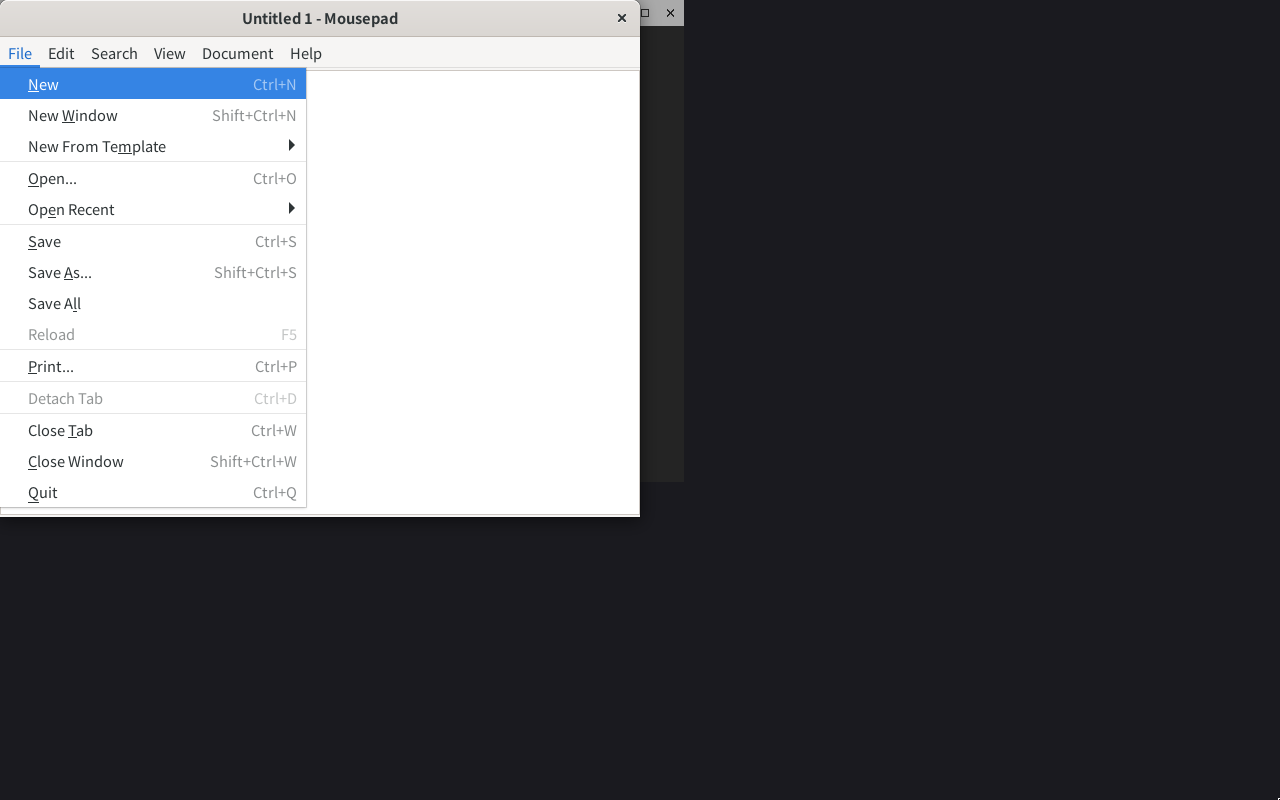
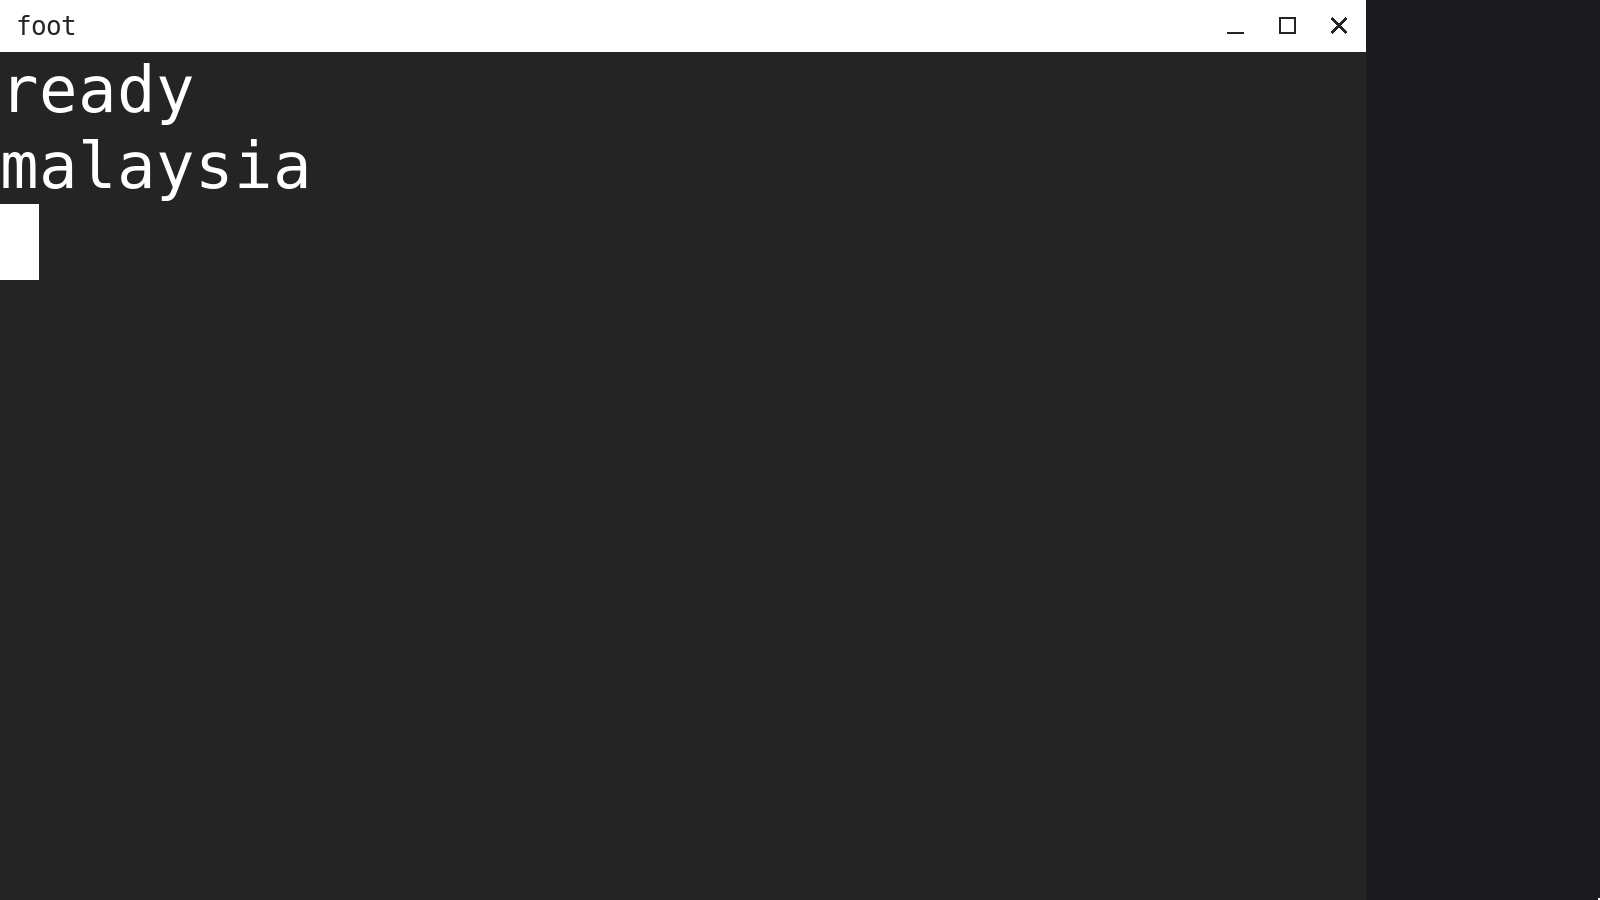
Feature: a whole-number output scale for HiDPI displays
The direct backend picks a scale from 1 to 4 from the display's physical size and mode, with the rule mutter uses in its integer mode, and draws the cursor at it. Nested, the output takes the host's scale. Smithay already scales windows, damage and input from the output.

The machine check gains a second machine whose display reports a 150x80 mm panel at 1600x900 through a firmware EDID, and expects scale 2 there.

diff --git a/crates/malaysia-compositor/src/drm.rs b/crates/malaysia-compositor/src/drm.rs
@@ -19,7 +19,7 @@ use smithay::backend::session::{Event as SessionEvent, Session};
 use smithay::backend::udev::primary_gpu;
 use smithay::desktop::{Space, Window};
 use smithay::input::pointer::{CursorImageAttributes, CursorImageStatus};
-use smithay::output::{Mode, Output, PhysicalProperties};
+use smithay::output::{Mode, Output, PhysicalProperties, Scale};
 use smithay::reexports::calloop::LoopHandle;
 use smithay::reexports::drm::control::{Device, ModeTypeFlags, connector};
 use smithay::reexports::input::Libinput;
@@ -28,6 +28,7 @@ use smithay::reexports::wayland_server::DisplayHandle;
 use smithay::utils::{DeviceFd, IsAlive, Logical, Point};
 use smithay::wayland::compositor::with_states;
 
+use crate::scale::integer_scale;
 use crate::state::{Backend, CLEAR_COLOR, Element, State, elements};
 
 const CURSOR_SIZE: i32 = 16;
@@ -86,12 +87,18 @@ impl Drm {
             .or(connector.modes().first())
             .copied()
             .ok_or("connector has no mode")?;
+        let (width_mm, height_mm) = connector.size().unwrap_or((0, 0));
+        let output_mode = Mode::from(mode);
+        let scale = integer_scale((width_mm as i32, height_mm as i32).into(), output_mode.size);
         tracing::info!(
             connector = ?connector.interface(),
             id = connector.interface_id(),
             width = mode.size().0,
             height = mode.size().1,
             refresh = mode.vrefresh(),
+            width_mm,
+            height_mm,
+            scale,
             "mode chosen"
         );
         let crtc = connector
@@ -106,7 +113,6 @@ impl Drm {
             })
             .ok_or("no crtc for the connector")?;
 
-        let (width_mm, height_mm) = connector.size().unwrap_or((0, 0));
         let output = Output::new(
             format!(
                 "{}-{}",
@@ -121,9 +127,13 @@ impl Drm {
                 serial_number: String::new(),
             },
         );
-        let output_mode = Mode::from(mode);
         output.set_preferred(output_mode);
-        output.change_current_state(Some(output_mode), None, None, Some((0, 0).into()));
+        output.change_current_state(
+            Some(output_mode),
+            None,
+            Some(Scale::Integer(scale)),
+            Some((0, 0).into()),
+        );
         output.create_global::<State>(display_handle);
 
         let surface = drm.create_surface(crtc, mode, &[connector.handle()])?;
@@ -228,7 +238,7 @@ impl Drm {
         pointer: Point<f64, Logical>,
         frame: &mut Vec<Element>,
     ) -> Result<bool, Box<dyn Error>> {
-        self.push_cursor(cursor, pointer, frame);
+        self.push_cursor(output, cursor, pointer, frame);
         elements(&mut self.renderer, space, output, frame)?;
         let is_empty = self
             .compositor
@@ -243,10 +253,12 @@ impl Drm {
 
     fn push_cursor(
         &mut self,
+        output: &Output,
         cursor: &CursorImageStatus,
         pointer: Point<f64, Logical>,
         frame: &mut Vec<Element>,
     ) {
+        let scale = output.current_scale().fractional_scale();
         match cursor {
             CursorImageStatus::Hidden => {}
             CursorImageStatus::Surface(surface) if surface.alive() => {
@@ -259,20 +271,22 @@ impl Drm {
                         .unwrap()
                         .hotspot
                 });
-                let location = (pointer - hotspot.to_f64()).to_physical(1.0).to_i32_round();
+                let location = (pointer - hotspot.to_f64())
+                    .to_physical(scale)
+                    .to_i32_round();
                 frame.extend(render_elements_from_surface_tree::<_, Element>(
                     &mut self.renderer,
                     surface,
                     location,
-                    1.0,
+                    scale,
                     1.0,
                     Kind::Cursor,
                 ));
             }
             _ => frame.push(Element::Solid(SolidColorRenderElement::from_buffer(
                 &self.cursor_fallback,
-                pointer.to_physical(1.0).to_i32_round(),
-                1.0,
+                pointer.to_physical(scale).to_i32_round(),
+                scale,
                 1.0,
                 Kind::Cursor,
             ))),

diff --git a/crates/malaysia-compositor/src/scale.rs b/crates/malaysia-compositor/src/scale.rs
@@ -1,0 +1,93 @@
+use smithay::utils::{Physical, Raw, Size};
+
+const MOBILE_TARGET_DPI: f64 = 135.0;
+const LARGE_TARGET_DPI: f64 = 110.0;
+const LARGE_MIN_DIAGONAL_INCHES: f64 = 20.0;
+const MM_PER_INCH: f64 = 25.4;
+const INTEGER_BIAS: f64 = 0.125;
+const MAX_SCALE: i32 = 4;
+const MIN_LOGICAL_AREA: i32 = 600 * 600;
+const ASPECT_RATIOS_AS_SIZE: [(i32, i32); 6] = [
+    (1600, 900),
+    (1600, 1000),
+    (160, 90),
+    (160, 100),
+    (16, 9),
+    (16, 10),
+];
+
+pub fn integer_scale(size_mm: Size<i32, Raw>, mode_size: Size<i32, Physical>) -> i32 {
+    if size_mm.w <= 0 || size_mm.h <= 0 || ASPECT_RATIOS_AS_SIZE.contains(&(size_mm.w, size_mm.h)) {
+        return 1;
+    }
+    let diagonal_inches = f64::from(size_mm.w).hypot(f64::from(size_mm.h)) / MM_PER_INCH;
+    let target_dpi = if diagonal_inches < LARGE_MIN_DIAGONAL_INCHES {
+        MOBILE_TARGET_DPI
+    } else {
+        LARGE_TARGET_DPI
+    };
+    let dpi = f64::from(mode_size.w).hypot(f64::from(mode_size.h)) / diagonal_inches;
+    let ideal = dpi / target_dpi - INTEGER_BIAS;
+    (1..=MAX_SCALE)
+        .filter(|scale| {
+            mode_size.w % scale == 0
+                && mode_size.h % scale == 0
+                && (mode_size.w / scale) * (mode_size.h / scale) >= MIN_LOGICAL_AREA
+        })
+        .min_by(|a, b| {
+            (f64::from(*a) - ideal)
+                .abs()
+                .total_cmp(&(f64::from(*b) - ideal).abs())
+        })
+        .unwrap_or(1)
+}
+
+#[cfg(test)]
+mod tests {
+    use super::*;
+
+    fn scale(size_mm: (i32, i32), mode_size: (i32, i32)) -> i32 {
+        integer_scale(size_mm.into(), mode_size.into())
+    }
+
+    #[test]
+    fn matches_the_integer_scales_mutter_expects() {
+        for (size_mm, mode_size, expected) in [
+            ((65, 129), (720, 1440), 1),
+            ((68, 144), (1080, 2280), 2),
+            ((64, 142), (1080, 2400), 2),
+            ((286, 179), (2560, 1600), 2),
+            ((303, 202), (2400, 1600), 1),
+            ((290, 180), (3840, 2400), 2),
+            ((300, 190), (3840, 2400), 2),
+            ((509, 286), (1920, 1080), 1),
+            ((509, 286), (3840, 2160), 2),
+            ((598, 336), (3840, 2160), 1),
+            ((708, 398), (3840, 2160), 1),
+            ((554, 312), (3840, 2160), 1),
+            ((522, 294), (3840, 2160), 2),
+        ] {
+            assert_eq!(
+                scale(size_mm, mode_size),
+                expected,
+                "{size_mm:?} {mode_size:?}"
+            );
+        }
+    }
+
+    #[test]
+    fn unknown_or_aspect_ratio_sizes_give_scale_one() {
+        for size_mm in [(0, 0), (0, 200), (300, 0)]
+            .into_iter()
+            .chain(ASPECT_RATIOS_AS_SIZE)
+        {
+            assert_eq!(scale(size_mm, (3840, 2160)), 1, "{size_mm:?}");
+        }
+    }
+
+    #[test]
+    fn a_150_by_80_mm_panel_gives_two_at_1600x900_and_one_at_1280x800() {
+        assert_eq!(scale((150, 80), (1600, 900)), 2);
+        assert_eq!(scale((150, 80), (1280, 800)), 1);
+    }
+}

diff --git a/crates/malaysia-compositor/src/winit.rs b/crates/malaysia-compositor/src/winit.rs
@@ -4,7 +4,7 @@ use smithay::backend::renderer::damage::OutputDamageTracker;
 use smithay::backend::renderer::gles::GlesRenderer;
 use smithay::backend::winit::{self, WinitEvent, WinitGraphicsBackend};
 use smithay::desktop::{Space, Window};
-use smithay::output::{Mode, Output, PhysicalProperties, Subpixel};
+use smithay::output::{Mode, Output, PhysicalProperties, Scale, Subpixel};
 use smithay::reexports::calloop::LoopHandle;
 use smithay::reexports::wayland_server::DisplayHandle;
 use smithay::utils::{Physical, Size, Transform};
@@ -51,10 +51,13 @@ impl Winit {
         output.create_global::<State>(display_handle);
 
         loop_handle.insert_source(event_loop, |event, _, state| match event {
-            WinitEvent::Resized { size, .. } => {
-                state
-                    .output
-                    .change_current_state(Some(mode(size)), None, None, None);
+            WinitEvent::Resized { size, scale_factor } => {
+                state.output.change_current_state(
+                    Some(mode(size)),
+                    None,
+                    Some(Scale::Fractional(scale_factor)),
+                    None,
+                );
                 state.needs_redraw = true;
             }
             WinitEvent::Redraw => state.render(),

diff --git a/crates/malaysia-compositor/src/main.rs b/crates/malaysia-compositor/src/main.rs
@@ -1,6 +1,7 @@
 mod drm;
 mod handlers;
 mod input;
+mod scale;
 mod state;
 mod winit;
 

diff --git a/ROADMAP.md b/ROADMAP.md
@@ -10,11 +10,13 @@ Last update: 2026-11-25.
 ## Where we are
 
 **Now:** the compositor runs directly on a display and nested in a Wayland
-session, and apps show their menus. Next is output scale; `linux-dmabuf`
-waits for a real GPU. Nothing has run on real hardware yet.
+session, apps show their menus, and a HiDPI display gets a whole-number
+scale. Next is fractional scale; `linux-dmabuf` waits for a real GPU. Nothing
+has run on real hardware yet.
 
-The display after the last finished step (step 9: on a NixOS machine, directly
-on the display, a text editor with its File menu open):
+The display after the last finished step (step 10: on a NixOS machine whose
+display reports a small 1600x900 panel, directly on the display, a terminal
+drawn at scale 2):
 
 ![The display after the last finished step](screen.png)
 
@@ -32,6 +34,7 @@ on the display, a text editor with its File menu open):
 | 8b | Cursor | a pointer that can be seen on a real display | done `aa62ca9` |
 | review | The whole code read against Smithay's source | fixes for focus, hidden errors and a retried frame | done `afa81d4` |
 | 9 | Popups: `xdg_popup` with its keyboard and pointer grab | a menu, its submenus and a context menu that stays inside the display | done `5c5d116` |
+| 10 | Output scale: 1 to 4, chosen from the display's physical size and mode with mutter's rule; nested, the host's scale | windows, menus and the cursor twice as large on a HiDPI panel | done |
 
 Steps 1 to 8b were the first stage: the compositor runs directly on hardware
 and nested in another session.
@@ -45,7 +48,8 @@ In the order they will be taken, one at a time:
    branch: it only turns on with a hardware render node, and the test machines
    have none, so it waits for a real GPU to be checked on. The steps below go
    ahead meanwhile.
-2. Output scale, for HiDPI displays.
+2. Fractional scale (`wp_fractional_scale_v1` and `wp_viewporter`): the
+   displays whose right scale is 1.25, 1.5 or 1.75 stay at 1 until then.
 3. Layer shell, which the shell needs to place its surfaces.
 4. `bk` returns, with its first two components: the lock screen and the
    screen capture portal.
@@ -81,6 +85,14 @@ prove is marked here as **not verified on hardware** until someone runs it.
 - When an app closes its own menu, the keyboard focus returns to the window on
   the next key or pointer event, not at once.
 - Every window opens at the top left corner, over the others.
+- The scale is a whole number. A 14 inch 1440p panel, a 16 inch 2560x1600
+  panel and a 27 inch 4K monitor stay at 1; a 14 inch 2880x1800 panel gets 2.
+- The scale cannot be set by hand: a display that reports a wrong size gets a
+  wrong scale, and one that reports none (a TV, a projector) gets 1.
+- At scale 2 a client that draws with `wl_shm` fills four times the pixels on
+  the CPU, until `linux-dmabuf`.
+- A client is not told which display its cursor is on, so some toolkits draw
+  the cursor at scale 1 and it looks soft at scale 2. foot and GTK are right.
 - The fallback cursor is a white square: it shows where no client sets its
   own cursor. Cursor themes come later.
 - The pointer starts at the top left corner.
@@ -107,5 +119,8 @@ prove is marked here as **not verified on hardware** until someone runs it.
 - A frame lost while the session is paused, and starting from a VT that is not
   the active one.
 - Scroll, drag and drop and the clipboard.
+- Scale on a real panel: the rule was checked with mutter's own table of
+  displays and on a virtual display made to report a small panel. A client's
+  own cursor at scale 2 on the direct backend was not checked.
 - Menus were checked with one GTK 3 app. A Qt app and a popup that asks to be
   moved after it is shown are untested.

diff --git a/README.md b/README.md
@@ -5,7 +5,9 @@ Malaysia is a Wayland compositor written in Rust on
 
 It is being rebuilt from its foundation, one dependency at a time. Today it
 draws the windows and the menus of Wayland clients that use `xdg_shell` and
-shared-memory buffers, and gives them a keyboard and a pointer. It runs in two ways:
+shared-memory buffers, and gives them a keyboard and a pointer. A HiDPI
+display gets a scale of 2, 3 or 4, chosen from its physical size and
+resolution. It runs in two ways:
 
 - **Directly on a display.** Started from a TTY by a normal user, it takes its
   session from libseat, finds the GPU through udev, drives the display through
@@ -104,7 +106,9 @@ nix build .#checks.<system>.vm
 The last one boots a NixOS machine, logs a normal user in on a TTY, runs the
 compositor directly on the virtual GPU, types into a terminal, moves the mouse
 and checks the cursor, switches to another VT and back, types again, opens and closes a menu in a
-text editor and quits.
+text editor and quits. A second machine, whose display reports a small
+1600x900 panel, checks that the compositor picks scale 2 and that the cursor
+and a terminal are drawn at it.
 
 On a Mac, `vm.sh` runs all of this in a Linux box that has a virtual display
 and a headless desktop:
